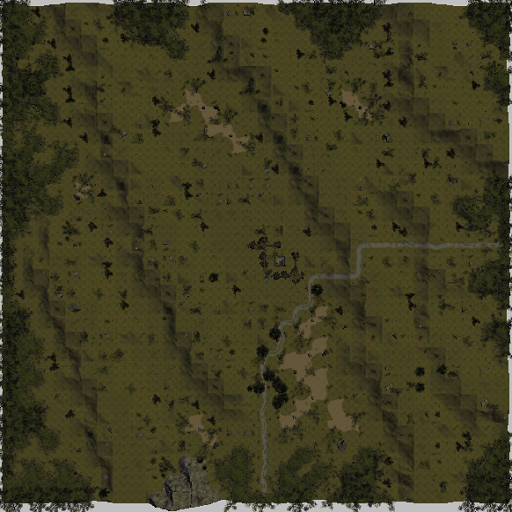
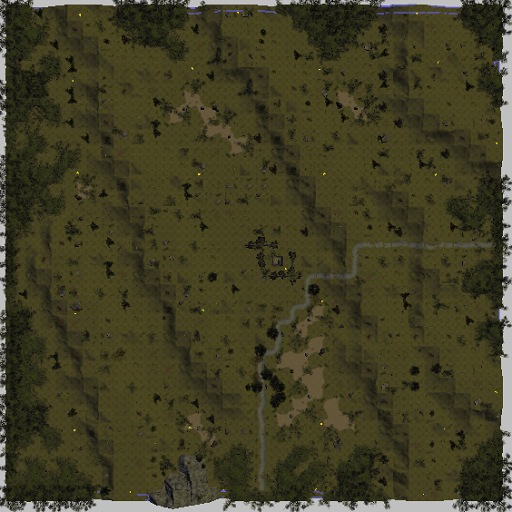
210505
Working on Varhyt Plains & Hills

diff --git a/common.js b/common.js
@@ -13,22 +13,22 @@ var map = {
     csize: 256,
     csize_noscr: 100,
     layers: [[
-        //1              2                3              4              5              6                  7                 8                  9                  10                 11                 12                 13                 14                 15                 16                 17                 18                 19                 20                21                22                     23                 24                25                 26              27          28           29            
-        '0map',          '0map',          '0map',        '0map',        '0map',        '0map',            '0map',           '0map',            '0map',            '0map',            '0map',            '0map',            '0map',            '0map',            '0map',            '0map',            '0map',            '0map',            '0map',            '0map',           '0map',           '0map',                '0map',            '0map',           '0map',            '0map',         '0map',     '0map',      '0map',
-        '0map',          '0map',          '0map',        '0map',        '0map',        '0map',            '0map',           '0map',            '0map',            '0map',            '0map',            '0map',            '0map',            '0map',            '0map',            '0map',            '0map',            '0map',            '0map',            '0map',           '0map',           '0map',                'TorArcanaFw',     'TorArcana',      'TorArcanaFe',     '0map',         '0map',     '0map',      '0map',
-        't_zazesspur_nw','t_zazesspur_ne','0map',        '0map',        '0map',        '0map',            '0map',           '0map',            '0map',            '0map',            '0map',            '0map',            '0map',            '0map',            '0map',            '0map',            '0map',            '0map',            '0map',            '0map',           '0map',           '0map',                't_varyth_torf_sw','t_varyth_torf_s','t_varyth_torf_se','0map',         '0map',     '0map',      '0map',
-        't_zazesspur_sw','t_zazesspur_se','t_venazir_ne','SulZaz2',     '0map',        '0map',            't_tethyrcast_nw','t_tethyrcast_n',  't_tethyrcast_ne', 'SuldusBard1',     '0map',            'IthmonSulW',      't_hostim_quay',   'IthmonSulE',      'IthmonSulE1',     'IthmonSulE2',     't_grannox',       't_grannox_farms', 't_lhestynheart',  't_freelm_farms', 't_freelmanse',   '0map',                't_varyth_plain_w','VarythPlainC',   '0map',            '0map',         '0map',     '0map',      '0map',
-        't_venazir_sw',  't_venazir_s',   't_venazir_se','SulZaz3',     'SulZaz4',     'SulZaz5',         't_tethyrcast_w', 't_tethyrcast',    't_tethyrcast_e',  'SuldusBard2',     'SuldusBard3',     'SuldusBard4',     't_hostim',        '0map',            '0map',            '0map',            't_lhest_gorge',   't_lhest_farm_sw', 't_lhest_farm_s',  't_lhest_farm_se','t_rivshrehill_n','t_rivshrehill_ne',    't_varyth_hill_nw','0map',           '0map',            't_iltarghal',  '0map',     't_survale', '0map',
-        '0map',          '0map',          'OldKingRoad1','OldKingRoad2','OldKingRoad3','OldKingRoad4',    't_tethyrcast_sw','t_tethyrcast_s',  't_tethyrcast_se', '0map',            '0map',            '0map',            't_hostim_road',   '0map',            '0map',            '0map',            't_qonsir',        't_qonsir_farm',   't_lhest_road',    't_rivshrehill_w','t_rivshrehill_c','t_st_ostus',          't_varyth_hill_sw','0map',           '0map',            '0map',         '0map',     '0map',      '0map',
-        '0map',          '0map',          '0map',        '0map',        '0map',        't_sahark_crossrd','t_saharkhan',    't_bardshy_itr_1', 't_bardshyr_lorik','t_bardshy_itr_3', 't_bardshy_itr_4', 't_ithmon_ithr_w1','t_ithmon_ithr_w2','t_ithmon_lorcros','t_ithmon_ithr_e1','t_ithmon_ithr_e2','t_rvrshr_ithrdw', 't_crownfarms_nw', 't_crownfarms_n',  't_crownfarms_ne','t_rivshrehill_s','t_rivshrehill_se',    '0map',            '0map',           '0map',            '0map',         '0map',     '0map',      '0map',
-        '0map',          '0map',          '0map',        '0map',        '0map',        'SoldiersRoad1',   '0map',           '0map',            '0map',            '0map',            '0map',            '0map',            't_ithmon_farm_nw','t_ithmon_farm_n', 't_ithmon_farm_ne','t_loransewood_n', 't_crownfarms_iw2','t_crownfarms_iw1','t_darromar',      '0map',           '0map',           '0map',                '0map',            '0map',           '0map',            '0map',         '0map',     '0map',      '0map',
-        '0map',          '0map',          '0map',        '0map',        '0map',        'SoldiersRoad2',   '0map',           '0map',            '0map',            '0map',            '0map',            '0map',            't_ithmon_farm_w', 't_ithmon_loranse','t_ithmon_farm_e', 't_loransewood_s', 't_ruba',          't_clov_fld_nw',   't_clov_fld_itr_n','0map',           '0map',           '0map',                '0map',            '0map',           '0map',            '0map',         '0map',     '0map',      '0map',
-        '0map',          '0map',          '0map',        '0map',        '0map',        'SoldiersRoad3',   '0map',           '0map',            '0map',            '0map',            '0map',            '0map',            '0map',            '0map',            '0map',            '0map',            '0map',            '0map',            't_clov_fld_itr_s','0map',           '0map',           '0map',                '0map',            '0map',           '0map',            '0map',         '0map',     '0map',      '0map',
-        '0map',          '0map',          '0map',        '0map',        '0map',        't_krennasar',     '0map',           '0map',            '0map',            '0map',            '0map',            '0map',            '0map',            '0map',            '0map',            '0map',            '0map',            '0map',            '0map',            '0map',           '0map',           '0map',                '0map',            '0map',           '0map',            '0map',         '0map',     '0map',      '0map',
-        '0map',          '0map',          '0map',        '0map',        '0map',        '0map',            '0map',           '0map',            '0map',            '0map',            '0map',            '0map',            '0map',            '0map',            '0map',            '0map',            '0map',            '0map',            '0map',            '0map',           '0map',           '0map',                '0map',            '0map',           '0map',            '0map',         '0map',     '0map',      '0map',
-        '0map',          '0map',          '0map',        '0map',        '0map',        '0map',            '0map',           '0map',            '0map',            '0map',            '0map',            '0map',            '0map',            '0map',            '0map',            '0map',            '0map',            '0map',            '0map',            '0map',           '0map',           '0map',                '0map',            '0map',           '0map',            '0map',         '0map',     '0map',      '0map',   
-        '0map',          '0map',          't_myratma_w', 't_myratma_e', '0map',        '0map',            '0map',           '0map',            '0map',            '0map',            '0map',            '0map',            '0map',            '0map',            '0map',            '0map',            '0map',            '0map',            '0map',            '0map',           '0map',           '0map',                '0map',            '0map',           '0map',            '0map',         '0map',     '0map',      '0map',
-        '0map',          '0map',          '0map',        '0map',        '0map',        '0map',            '0map',           '0map',            '0map',            '0map',            '0map',            '0map',            '0map',            '0map',            '0map',            '0map',            '0map',            '0map',            '0map',            '0map',           '0map',           '0map',                '0map',            '0map',           '0map',            '0map',         '0map',     '0map',      '0map'
+        //1              2                3              4              5              6                  7                 8                  9                  10                 11                 12                 13                 14                 15                 16                 17                 18                 19                 20                21                22                     23                 24                 25                 26              27          28           29            
+        '0map',          '0map',          '0map',        '0map',        '0map',        '0map',            '0map',           '0map',            '0map',            '0map',            '0map',            '0map',            '0map',            '0map',            '0map',            '0map',            '0map',            '0map',            '0map',            '0map',           '0map',           '0map',                '0map',            '0map',            '0map',            '0map',         '0map',     '0map',      '0map',
+        '0map',          '0map',          '0map',        '0map',        '0map',        '0map',            '0map',           '0map',            '0map',            '0map',            '0map',            '0map',            '0map',            '0map',            '0map',            '0map',            '0map',            '0map',            '0map',            '0map',           '0map',           '0map',                'TorArcanaFw',     'TorArcana',       'TorArcanaFe',     '0map',         '0map',     '0map',      '0map',
+        't_zazesspur_nw','t_zazesspur_ne','0map',        '0map',        '0map',        '0map',            '0map',           '0map',            '0map',            '0map',            '0map',            '0map',            '0map',            '0map',            '0map',            '0map',            '0map',            '0map',            '0map',            '0map',           '0map',           '0map',                't_varyth_torf_sw','t_varyth_torf_s', 't_varyth_torf_se','0map',         '0map',     '0map',      '0map',
+        't_zazesspur_sw','t_zazesspur_se','t_venazir_ne','SulZaz2',     '0map',        '0map',            't_tethyrcast_nw','t_tethyrcast_n',  't_tethyrcast_ne', 'SuldusBard1',     '0map',            'IthmonSulW',      't_hostim_quay',   'IthmonSulE',      'IthmonSulE1',     'IthmonSulE2',     't_grannox',       't_grannox_farms', 't_lhestynheart',  't_freelm_farms', 't_freelmanse',   '0map',                't_varyth_plain_w','t_varyth_plain_c','t_varyth_plain_e','0map',         '0map',     '0map',      '0map',
+        't_venazir_sw',  't_venazir_s',   't_venazir_se','SulZaz3',     'SulZaz4',     'SulZaz5',         't_tethyrcast_w', 't_tethyrcast',    't_tethyrcast_e',  'SuldusBard2',     'SuldusBard3',     'SuldusBard4',     't_hostim',        '0map',            '0map',            '0map',            't_lhest_gorge',   't_lhest_farm_sw', 't_lhest_farm_s',  't_lhest_farm_se','t_rivshrehill_n','t_rivshrehill_ne',    't_varyth_hill_nw','t_varyth_hill_n', 't_varyth_hill_ne','t_iltarghal',  '0map',     't_survale', '0map',
+        '0map',          '0map',          'OldKingRoad1','OldKingRoad2','OldKingRoad3','OldKingRoad4',    't_tethyrcast_sw','t_tethyrcast_s',  't_tethyrcast_se', '0map',            '0map',            '0map',            't_hostim_road',   '0map',            '0map',            '0map',            't_qonsir',        't_qonsir_farm',   't_lhest_road',    't_rivshrehill_w','t_rivshrehill_c','t_st_ostus',          't_varyth_hill_sw','t_varyth_hill_s', 't_varyth_hill_se','0map',         '0map',     '0map',      '0map',
+        '0map',          '0map',          '0map',        '0map',        '0map',        't_sahark_crossrd','t_saharkhan',    't_bardshy_itr_1', 't_bardshyr_lorik','t_bardshy_itr_3', 't_bardshy_itr_4', 't_ithmon_ithr_w1','t_ithmon_ithr_w2','t_ithmon_lorcros','t_ithmon_ithr_e1','t_ithmon_ithr_e2','t_rvrshr_ithrdw', 't_crownfarms_nw', 't_crownfarms_n',  't_crownfarms_ne','t_rivshrehill_s','t_rivshrehill_se',    '0map',            '0map',            '0map',            '0map',         '0map',     '0map',      '0map',
+        '0map',          '0map',          '0map',        '0map',        '0map',        'SoldiersRoad1',   '0map',           '0map',            '0map',            '0map',            '0map',            '0map',            't_ithmon_farm_nw','t_ithmon_farm_n', 't_ithmon_farm_ne','t_loransewood_n', 't_crownfarms_iw2','t_crownfarms_iw1','t_darromar',      '0map',           '0map',           '0map',                '0map',            '0map',            '0map',            '0map',         '0map',     '0map',      '0map',
+        '0map',          '0map',          '0map',        '0map',        '0map',        'SoldiersRoad2',   '0map',           '0map',            '0map',            '0map',            '0map',            '0map',            't_ithmon_farm_w', 't_ithmon_loranse','t_ithmon_farm_e', 't_loransewood_s', 't_ruba',          't_clov_fld_nw',   't_clov_fld_itr_n','0map',           '0map',           '0map',                '0map',            '0map',            '0map',            '0map',         '0map',     '0map',      '0map',
+        '0map',          '0map',          '0map',        '0map',        '0map',        'SoldiersRoad3',   '0map',           '0map',            '0map',            '0map',            '0map',            '0map',            '0map',            '0map',            '0map',            '0map',            '0map',            '0map',            't_clov_fld_itr_s','0map',           '0map',           '0map',                '0map',            '0map',            '0map',            '0map',         '0map',     '0map',      '0map',
+        '0map',          '0map',          '0map',        '0map',        '0map',        't_krennasar',     '0map',           '0map',            '0map',            '0map',            '0map',            '0map',            '0map',            '0map',            '0map',            '0map',            '0map',            '0map',            '0map',            '0map',           '0map',           '0map',                '0map',            '0map',            '0map',            '0map',         '0map',     '0map',      '0map',
+        '0map',          '0map',          '0map',        '0map',        '0map',        '0map',            '0map',           '0map',            '0map',            '0map',            '0map',            '0map',            '0map',            '0map',            '0map',            '0map',            '0map',            '0map',            '0map',            '0map',           '0map',           '0map',                '0map',            '0map',            '0map',            '0map',         '0map',     '0map',      '0map',
+        '0map',          '0map',          '0map',        '0map',        '0map',        '0map',            '0map',           '0map',            '0map',            '0map',            '0map',            '0map',            '0map',            '0map',            '0map',            '0map',            '0map',            '0map',            '0map',            '0map',           '0map',           '0map',                '0map',            '0map',            '0map',            '0map',         '0map',     '0map',      '0map',   
+        '0map',          '0map',          't_myratma_w', 't_myratma_e', '0map',        '0map',            '0map',           '0map',            '0map',            '0map',            '0map',            '0map',            '0map',            '0map',            '0map',            '0map',            '0map',            '0map',            '0map',            '0map',           '0map',           '0map',                '0map',            '0map',            '0map',            '0map',         '0map',     '0map',      '0map',
+        '0map',          '0map',          '0map',        '0map',        '0map',        '0map',            '0map',           '0map',            '0map',            '0map',            '0map',            '0map',            '0map',            '0map',            '0map',            '0map',            '0map',            '0map',            '0map',            '0map',           '0map',           '0map',                '0map',            '0map',            '0map',            '0map',         '0map',     '0map',      '0map'
     ], [
       //                  10                  20  
       //1 2 3 4 5 6 7 8 9   1 2 3 4 5 6 7 8 9   1 2 3 4 5 6 7 8 9
